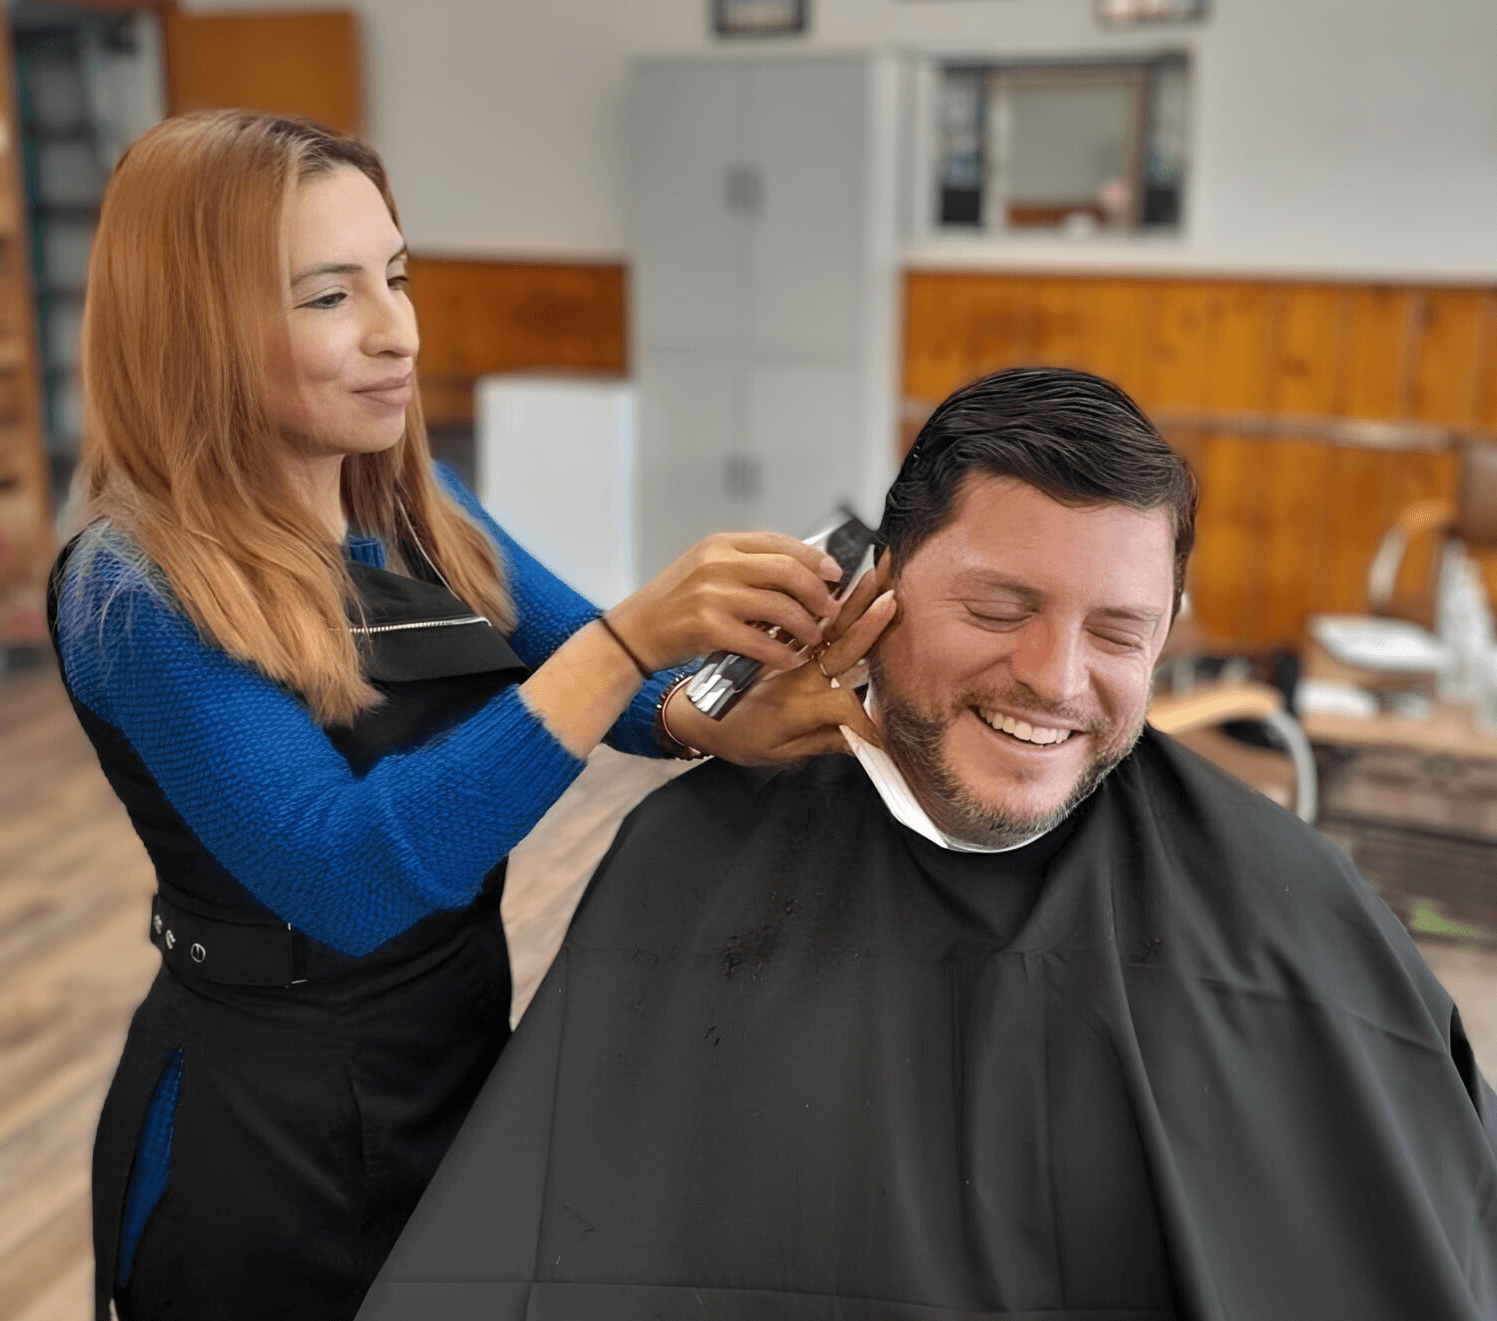
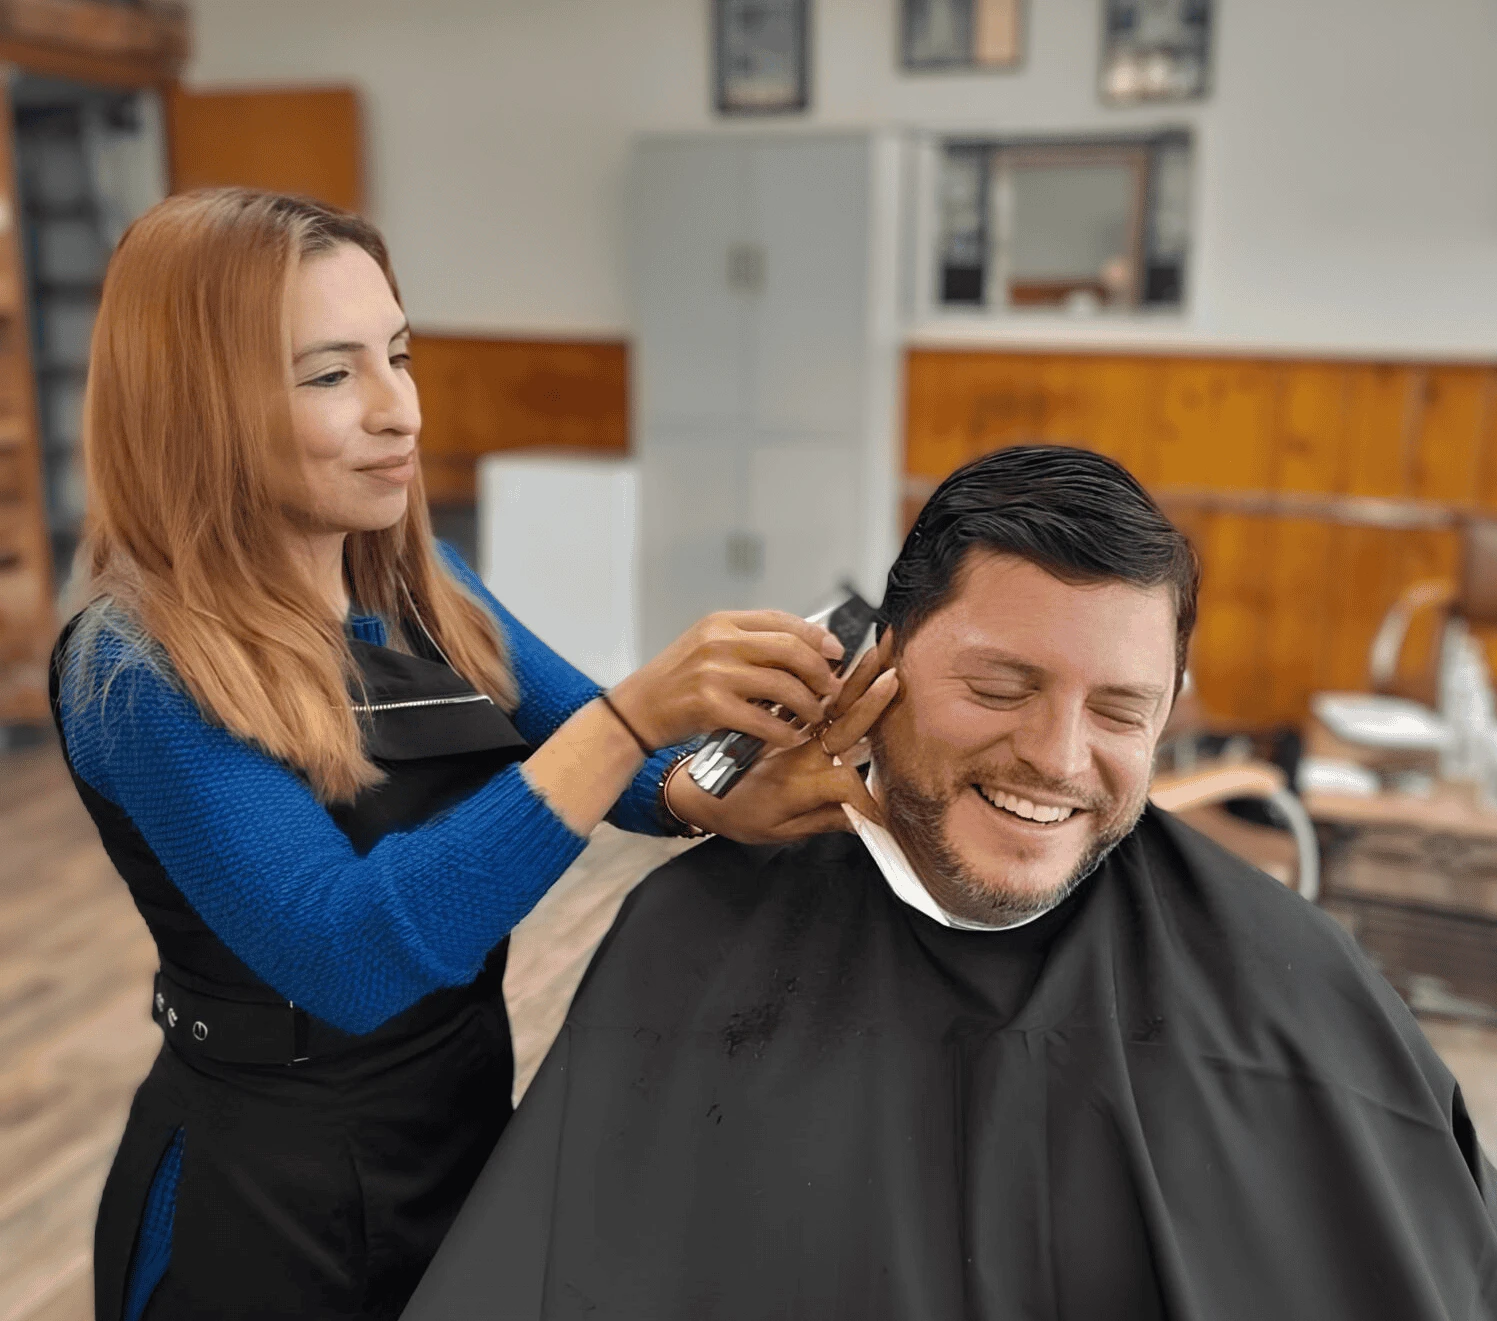
Replace header image

diff --git a/index.html b/index.html
@@ -68,19 +68,9 @@
 
           <li>
             <ul class="social-list">
-
-                <!--
-                <a href="https://www.yelp.com/biz/berkeley-barber-shop-berkeley-heights" class="social-link">
-                  <li data-language="en">
-                    Find us on Yelp! <img height="20" width="20" style="margin-left: 10px" src="assets/images/yelp.png">
-                  </li>
-                  <li data-language="es" class="hide">
-                    Encuéntranos en Yelp! <img height="20" width="20" style="margin-left: 10px" src="assets/images/yelp.png">
-                  </li>
-                </a>
-                -->
                 <li class="language-switcher">
-                    <span id="language-question">¿Español?&nbsp;</span><img id="language-flag" height="20" width="30" style="cursor: pointer; margin-right: 10px;" src="assets/images/spanish-flag.png" onclick="toggleLanguage()">
+                    <span id="language-question">¿Español?&nbsp;</span>
+                    <img id="language-flag" height="20" width="30" style="cursor: pointer; margin-right: 10px;" src="assets/images/spanish-flag.png" onclick="toggleLanguage()">
                 </li>
             </ul>
           </li>
@@ -99,7 +89,7 @@
 
   <main>
     <article>
-      <div style="background-image: url('./assets/images/berkeley_barbershop.jpg');" class="new-header has-before">
+      <div class="new-header has-before">
         <div class="title-group">
             <div class="title-container top-line-container">
                 <span class="line"></span>

diff --git a/assets/css/style.css b/assets/css/style.css
@@ -41,6 +41,7 @@
 --medium-gray: hsla(0, 0%, 93.73%);
 --platinum: hsl(0, 0%, 91%);
 --black: hsla(0, 0%, 0%, 1);
+--black_40: hsla(0, 0%, 0%, 0.4);
 --black_30: hsla(0, 0%, 0%, 0.3);
 --white_10: hsla(0, 0%, 100%, 0.1);
 --white_30: hsla(0, 0%, 100%, 0.3 );
@@ -310,6 +311,10 @@
 
 /* HEADER */
 .new-header {
+    background-image: url('../images/berkeley_barbershop.jpg');
+    @supports (background-image: url('../images/berkeley_barbershop.webp')) {
+        background-image: url('../images/berkeley_barbershop.webp');
+    }
     background-size: cover;
     background-position: center;
     height: 60vh;
@@ -555,7 +560,7 @@
 
 .new-header::before {
   inset: 0;
-  background-color: var(--black_30);
+  background-color: var(--black_40);
   mix-blend-mode: multiply;
   z-index: -1;
 }
@@ -645,6 +650,12 @@
 }
 
 @media (min-width: 1024px) { /* Adjusts for desktops and up */
+  .new-header {
+    background-image: url('../images/berkeley_barbershop_desktop.jpg');
+    @supports (background-image: url('../images/berkeley_barbershop_desktop.webp')) {
+        background-image: url('../images/berkeley_barbershop_desktop.webp');
+    }
+  }
   .carousel-item {
     /* Each item takes up a third of the container width minus the gap divided by 3 */
     min-width: calc(33.3333% - ((2 * var(--gap)) / 3));

diff --git a/assets/js/script.js b/assets/js/script.js
@@ -314,3 +314,32 @@ const filter = function () {
 }
 
 addEventOnElem(filterBtns, "click", filter);
+
+// Function to detect WebP support
+function supportsWebp(callback) {
+    // Create a small WebP image
+    var webP = new Image();
+    webP.onload = webP.onerror = function() {
+        callback(webP.height === 2);
+    };
[1 lines of base64/hex data omitted]
+}
+
+// Use the supportsWebp function
+supportsWebp(function(supported) {
+    var imagePath;
+    var isDesktop = window.innerWidth >= 1024; // Example breakpoint
+
+    if (isDesktop) {
+        imagePath = supported ? 'berkeley_barbershop_desktop.webp' : 'berkeley_barbershop_desktop.jpg';
+    } else {
+        imagePath = supported ? 'berkeley_barbershop.webp' : 'berkeley_barbershop.jpg';
+    }
+
+    // Preload the determined image
+    var link = document.createElement('link');
+    link.rel = 'preload';
+    link.as = 'image';
+    link.href = imagePath;
+    document.head.appendChild(link);
+});
